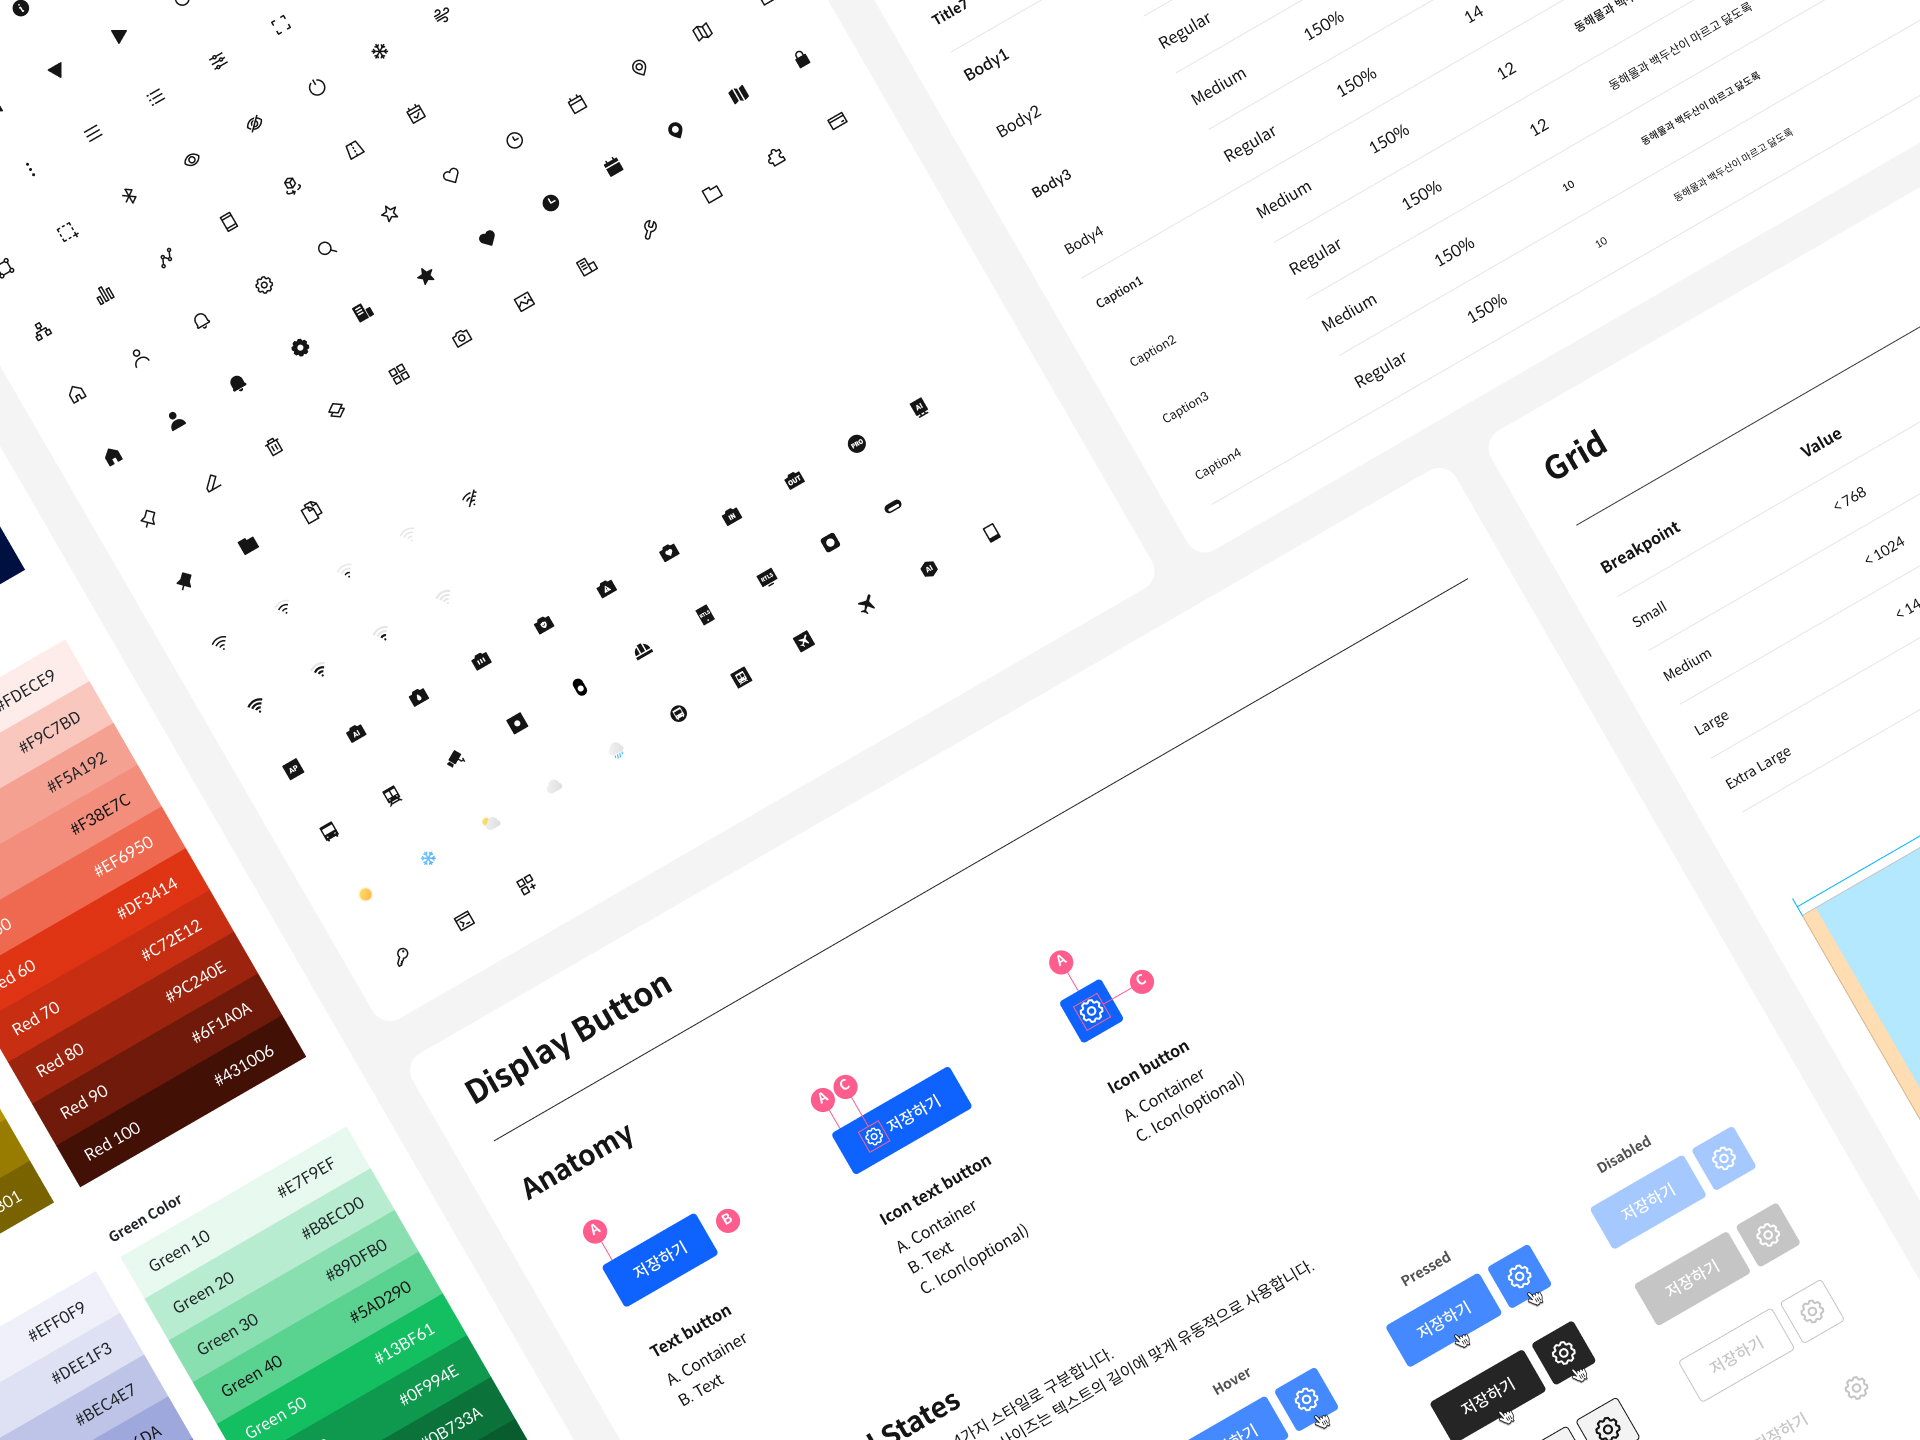
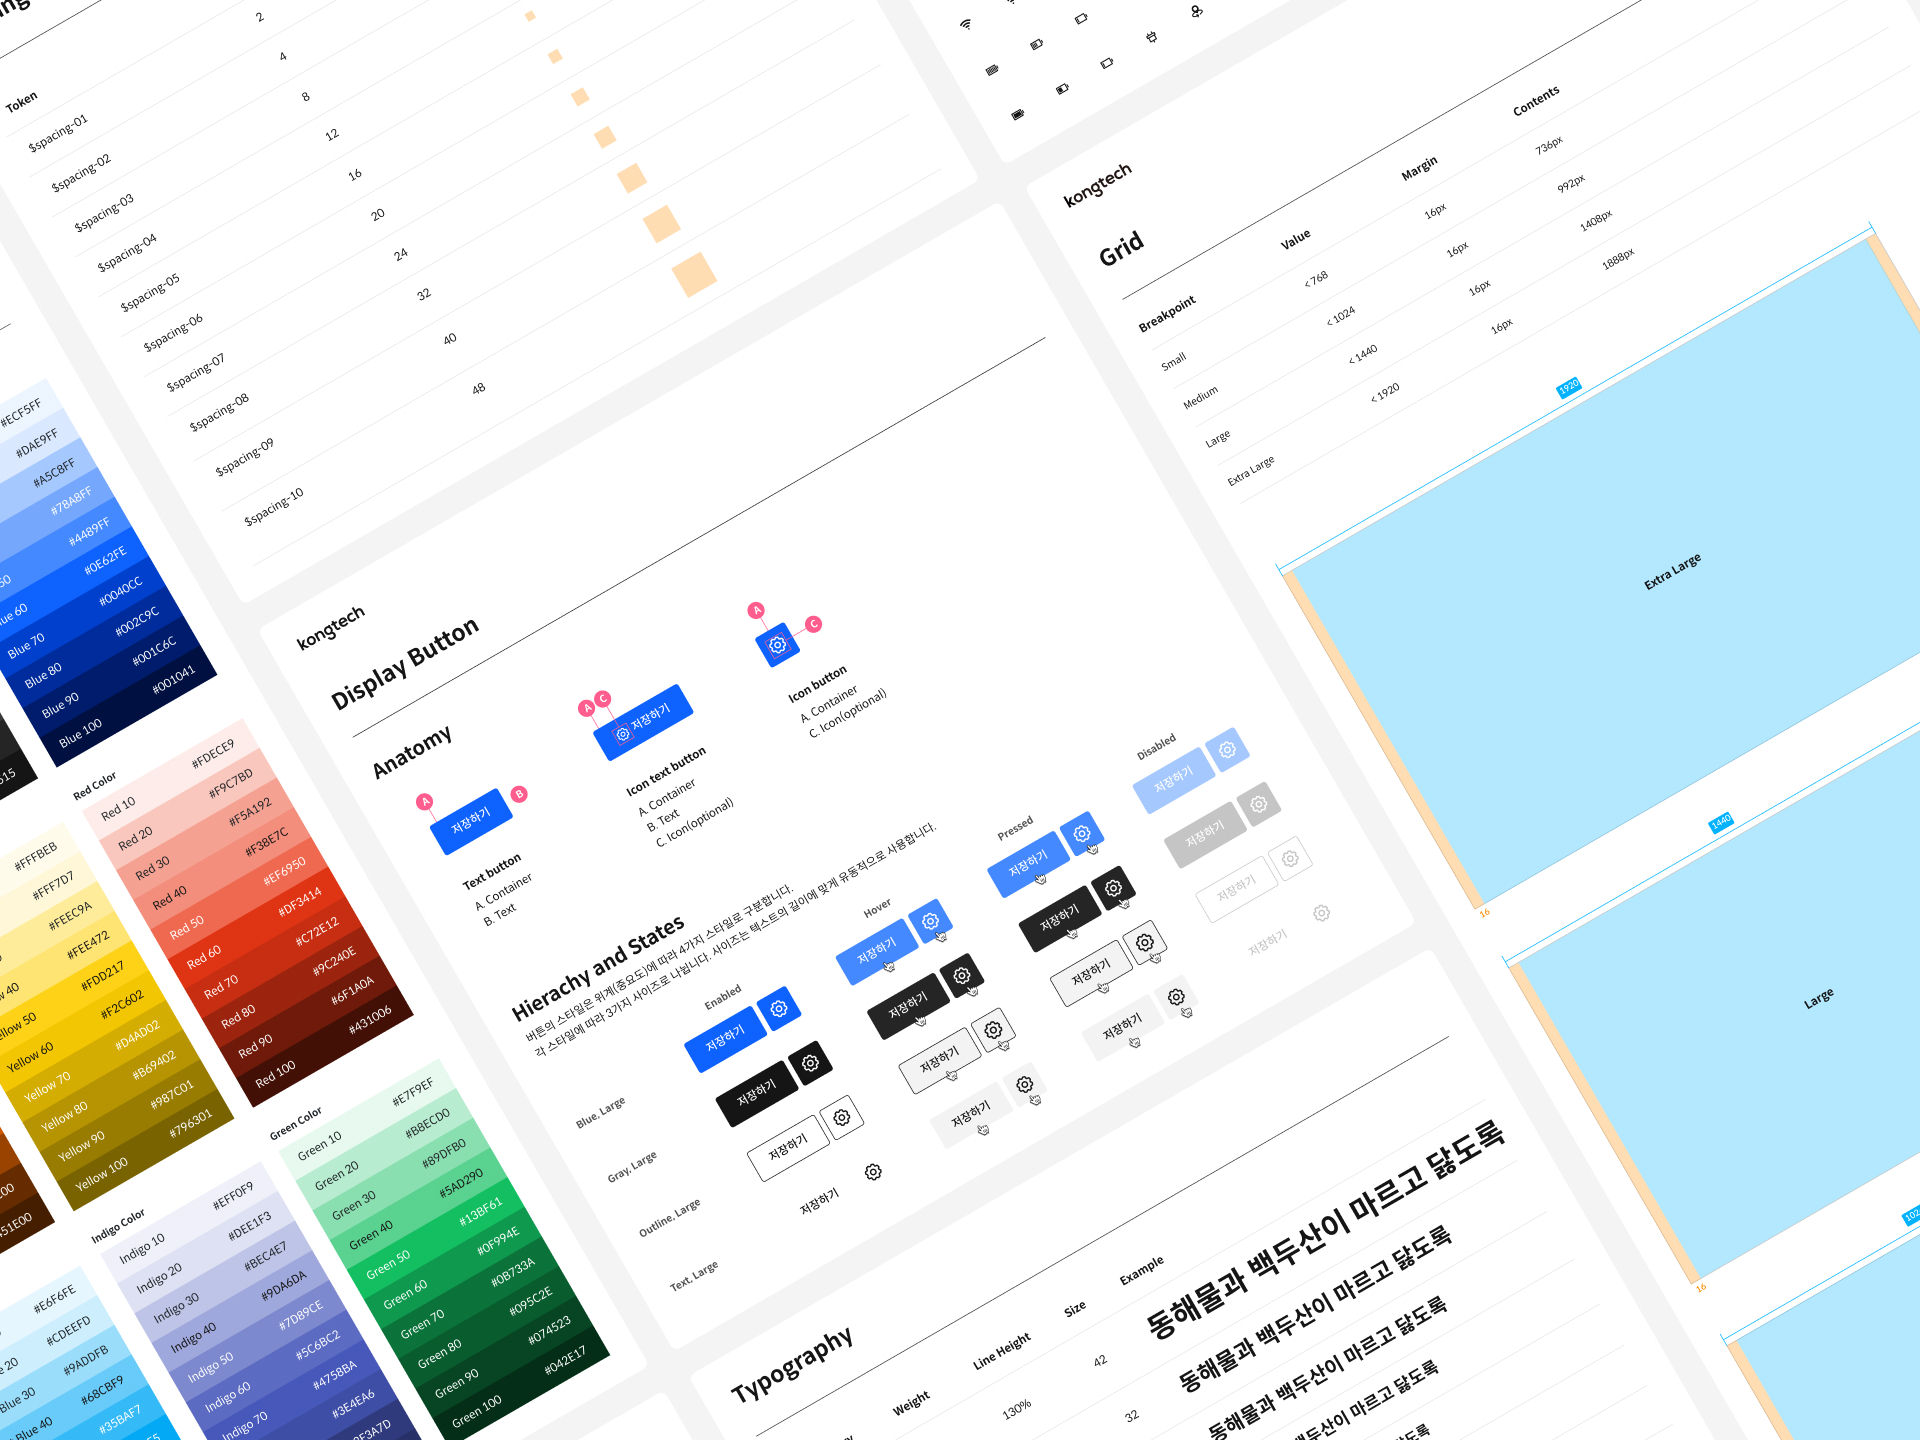
2022.09.30

diff --git a/dystem.html b/dystem.html
@@ -42,16 +42,96 @@
             <div class="text_container2">
                 <h2>디자인 시스템이 왜 필요한가?</h2>
                 <div class="text_container3">
-                    <h3>다양한 제품에 대응</h3>
-                    <div class="body1">디자인 시스템을 통해 효율성과 일관성을 확보함으로써 다양한 규모의 제품들을 빠르고 쉽게 만들 수 있습니다. </div>
+                    <h3>다양한 제품과 외부 작업자 대응</h3>
+                    <div class="body1">오브로는 다수의 제품군이 존재하고 플러그인 개념으로 외부 작업자들이 서비스를 직접 개발할 수도 있습니다. 이런 다양한 환경에서 기준이 되는 가이드라인 없이 일관된 사용자 경험을 제공하는 것은 매우 어려운 일이었습니다.</div>
                 </div>
                 <div class="text_container3">
                     <h3>작업 효율성</h3>
-                    <div class="body1">디자인 시스템을 사용하면 반복되는 요소들을 매번 새로 만들 필요 없습니다. 재사용 가능한 컴포넌트, 패턴 등을 이용해 작업의 효율성을 높일 수 있으며, 전체 제품 개발에 필요한 시간을 단축하여 더욱 빠르게 시장에 제품을 출시할 수 있습니다.</div>
+                    <div class="body1">오브로는 데이터를 수집 및 가공하거나 수집된 데이터를 분석하고 시각화하는 등 반복적으로 사용되는 패턴들이 있었습니다. 이 패턴들을 매번 반복적으로 작업하는 것은 많은 작업 시간을 필요로 했고 프로젝트 생산성을 저하시키는 요인 중 하나였습니다.</div>
                 </div>
                 <div class="text_container3">
                     <h3>구성원들간의 커뮤니케이션</h3>
-                    <div class="body1">디자인 시스템은 디자이너, 개발자, 프로젝트 매니저 등 프로젝트팀 구성원 사이의 지식 격차를 줄이고 공통의 원칙을 숙지하여 협업에 기여할 수 있습니다. 이를 통해 프로젝트 구성원이 함께 학습하고 성장할 수 있으며, 결국 프로젝트의 생산성 향상으로 이어집니다.</div>
+                    <div class="body1">팀 구성원이 늘어나면서 구성원들 간에 서로 다르게 해석하는 용어나 개념들이 생겨났고 이는 프로젝트 생산성을 저하시켰습니다. 이에 따라 디자이너, 개발자뿐만 아니라 프로덕트에 관여하는 모든 구성원 간의 커뮤니케이션을 도울 가이드라인이 필요했습니다.</div>
+                </div>
+            </div>
+        </div>
+        <div class="content">
+            <div class="text_container">
+                <h2>디자인 원칙</h2>
+                <div class="body1">디자인 시스템을 구축하기 앞서 오브로 서비스 환경을 이해하고 이에 대응할 수 있는 디자인 원칙을 정의했습니다. 이 디자인 원칙은 디자인 시스템을 구축하면서 발생하는 의사결정의 근거로 활용되고 오브로만의 디자인 철학을 정립할 수 있는 근간이 되었습니다.</div>
+            </div>
+            <img src="./image/dystem/img_2.jpg" width="100%">
+        </div>
+        <div class="content">
+            <div class="text_container">
+                <h2>컴포넌트 정의</h2>
+                <div class="body1">디자인 시스템을 구축하기 앞서 오브로 서비스 환경을 이해하고 이에 대응할 수 있는 디자인 원칙을 정의했습니다. 이 디자인 원칙은 디자인 시스템을 구축하면서 발생하는 의사결정의 근거로 활용되고 오브로만의 디자인 철학을 정립할 수 있는 근간이 되었습니다.</div>
+            </div>
+            <img src="./image/dystem/img_3.jpg" width="100%">
+        </div>
+        <div class="content">
+            <div class="text_container">
+                <h2>컴포넌트 정리 — Usage, Variants</h2>
+                <div class="body1">디자인 시스템을 구축하기 앞서 오브로 서비스 환경을 이해하고 이에 대응할 수 있는 디자인 원칙을 정의했습니다. 이 디자인 원칙은 디자인 시스템을 구축하면서 발생하는 의사결정의 근거로 활용되고 오브로만의 디자인 철학을 정립할 수 있는 근간이 되었습니다.</div>
+            </div>
+            <img src="./image/dystem/img_4.jpg" width="100%">
+        </div>
+        <div class="content">
+            <div class="text_container">
+                <h2>컴포넌트 정리 — Anatomy, States, Specs</h2>
+                <div class="body1">디자인 시스템을 구축하기 앞서 오브로 서비스 환경을 이해하고 이에 대응할 수 있는 디자인 원칙을 정의했습니다. 이 디자인 원칙은 디자인 시스템을 구축하면서 발생하는 의사결정의 근거로 활용되고 오브로만의 디자인 철학을 정립할 수 있는 근간이 되었습니다.</div>
+            </div>
+            <img src="./image/dystem/img_5.jpg" width="100%">
+        </div>
+        <div class="content">
+            <div class="text_container">
+                <h2>컴포넌트 정리 — Behavior</h2>
+                <div class="body1">디자인 시스템을 구축하기 앞서 오브로 서비스 환경을 이해하고 이에 대응할 수 있는 디자인 원칙을 정의했습니다. 이 디자인 원칙은 디자인 시스템을 구축하면서 발생하는 의사결정의 근거로 활용되고 오브로만의 디자인 철학을 정립할 수 있는 근간이 되었습니다.</div>
+            </div>
+            <img src="./image/dystem/img_6.jpg" width="100%">
+        </div>
+        <div class="content">
+            <div class="text_container">
+                <h2>디자인 요소들</h2>
+                <div class="body1">디자인 시스템을 구축하기 앞서 오브로 서비스 환경을 이해하고 이에 대응할 수 있는 디자인 원칙을 정의했습니다. 이 디자인 원칙은 디자인 시스템을 구축하면서 발생하는 의사결정의 근거로 활용되고 오브로만의 디자인 철학을 정립할 수 있는 근간이 되었습니다.</div>
+            </div>
+            <img src="./image/dystem/img_9.jpg" width="100%">
+        </div>
+        <div class="content">
+            <div class="text_container">
+                <h2>아이콘</h2>
+                <div class="body1">디자인 시스템을 구축하기 앞서 오브로 서비스 환경을 이해하고 이에 대응할 수 있는 디자인 원칙을 정의했습니다. 이 디자인 원칙은 디자인 시스템을 구축하면서 발생하는 의사결정의 근거로 활용되고 오브로만의 디자인 철학을 정립할 수 있는 근간이 되었습니다.</div>
+            </div>
+            <img src="./image/dystem/img_8.jpg" width="100%">
+        </div>
+        <div class="content">
+            <div class="text_container">
+                <h2>컴포넌트 에셋화</h2>
+                <div class="body1">디자인 시스템을 구축하기 앞서 오브로 서비스 환경을 이해하고 이에 대응할 수 있는 디자인 원칙을 정의했습니다. 이 디자인 원칙은 디자인 시스템을 구축하면서 발생하는 의사결정의 근거로 활용되고 오브로만의 디자인 철학을 정립할 수 있는 근간이 되었습니다.</div>
+            </div>
+            <img src="./image/dystem/img_7.jpg" width="100%">
+        </div>
+        <div class="content">
+            <div class="text_container">
+                <h2>개발 라이브러리화</h2>
+                <div class="body1">디자인 시스템을 구축하기 앞서 오브로 서비스 환경을 이해하고 이에 대응할 수 있는 디자인 원칙을 정의했습니다. 이 디자인 원칙은 디자인 시스템을 구축하면서 발생하는 의사결정의 근거로 활용되고 오브로만의 디자인 철학을 정립할 수 있는 근간이 되었습니다.</div>
+            </div>
+            <img src="./image/dystem/img_10.jpg" width="100%">
+        </div>
+        <div class="content">
+            <div class="text_container2">
+                <h2>구축 후기</h2>
+                <div class="text_container3">
+                    <h3>다양한 제품과 외부 작업자 대응</h3>
+                    <div class="body1">오브로는 다수의 제품군이 존재하고 플러그인 개념으로 외부 작업자들이 서비스를 직접 개발할 수도 있습니다. 이런 다양한 환경에서 기준이 되는 가이드라인 없이 일관된 사용자 경험을 제공하는 것은 매우 어려운 일이었습니다.</div>
+                </div>
+                <div class="text_container3">
+                    <h3>작업 효율성</h3>
+                    <div class="body1">오브로는 데이터를 수집 및 가공하거나 수집된 데이터를 분석하고 시각화하는 등 반복적으로 사용되는 패턴들이 있었습니다. 이 패턴들을 매번 반복적으로 작업하는 것은 많은 작업 시간을 필요로 했고 프로젝트 생산성을 저하시키는 요인 중 하나였습니다.</div>
+                </div>
+                <div class="text_container3">
+                    <h3>구성원들간의 커뮤니케이션</h3>
+                    <div class="body1">팀 구성원이 늘어나면서 구성원들 간에 서로 다르게 해석하는 용어나 개념들이 생겨났고 이는 프로젝트 생산성을 저하시켰습니다. 이에 따라 디자이너, 개발자뿐만 아니라 프로덕트에 관여하는 모든 구성원 간의 커뮤니케이션을 도울 가이드라인이 필요했습니다.</div>
                 </div>
             </div>
         </div>

diff --git a/style_project.css b/style_project.css
@@ -20,7 +20,7 @@ h1 {
     display: flex;
     flex-direction: column;
     gap: 200px;
-    margin-bottom: 40px;
+    margin-bottom: 80px;
 }
 .content {
     display: flex;
